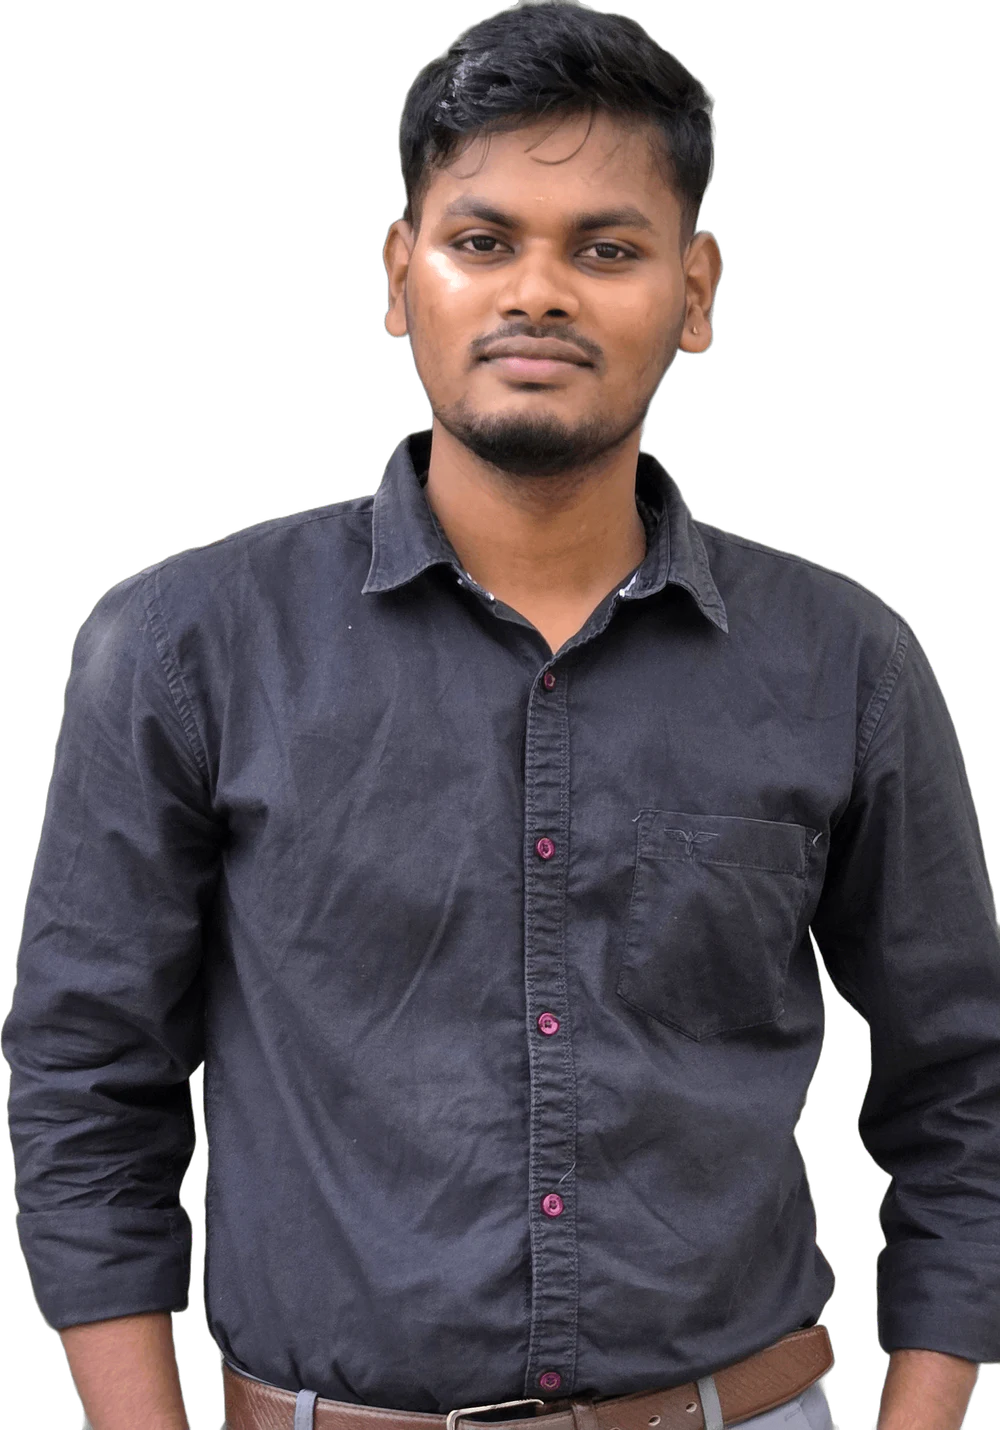
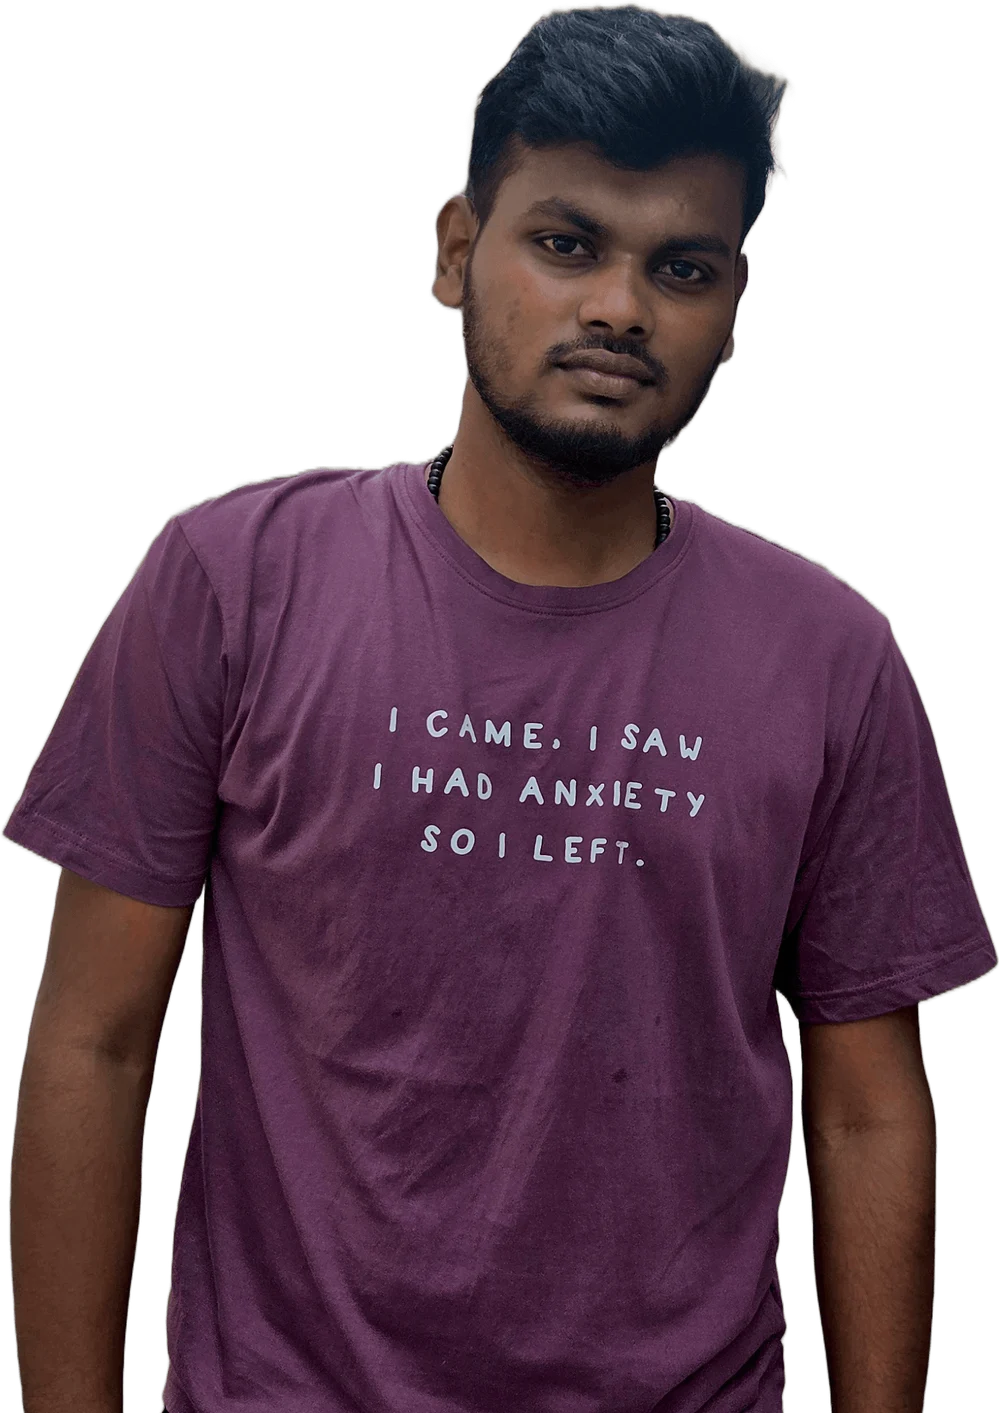
img updated

diff --git a/style.css b/style.css
@@ -403,44 +403,9 @@ body.has-pointer .cursor-glow { opacity: 1; }
 .sub-head { font-size: 1.4rem; margin-bottom: 1.5rem; }
 
 /* ---------- About ---------- */
-.about-grid { display: grid; grid-template-columns: .85fr 1.15fr; gap: clamp(2.5rem, 6vw, 5rem); align-items: center; }
+.about-grid { max-width: 820px; }
 
-.about-photo { position: relative; isolation: isolate; margin: 0; padding: 0 1.2rem 1.2rem 0; }
-.about-photo::before {
-    content: ""; position: absolute; inset: 1.2rem 0 0 1.2rem; border-radius: 28px;
-    background: var(--grad); opacity: .9; z-index: -1;
-    transition: transform .6s var(--ease);
-}
-.about-photo:hover::before { transform: translate(8px, 8px); }
-.photo-frame {
-    position: relative; aspect-ratio: 4 / 5; border-radius: 28px; box-shadow: var(--shadow);
-    background:
-        radial-gradient(90% 60% at 50% 100%, color-mix(in srgb, var(--primary) 40%, transparent), transparent 70%),
-        radial-gradient(60% 45% at 15% 15%, color-mix(in srgb, var(--primary-2) 28%, transparent), transparent 70%),
-        var(--surface-solid);
-    border: 1px solid var(--border-strong);
-}
-.photo-frame img {
-    position: absolute; left: 50%; bottom: 0; height: 110%; width: auto; max-width: none;
-    transform: translateX(-50%); transform-origin: 50% 100%;
-    clip-path: inset(-20% -40% 0 -40% round 0 0 27px 27px);
-    filter: drop-shadow(0 18px 30px rgba(0, 0, 0, .35));
-    transition: transform 1s var(--ease);
-}
-.about-photo:hover .photo-frame img { transform: translateX(-50%) scale(1.04); }
-.photo-badge {
-    position: absolute; left: -1.2rem; bottom: 3rem;
-    display: flex; align-items: center; gap: .8rem; padding: .9rem 1.2rem; border-radius: 16px;
-    background: color-mix(in srgb, var(--surface-solid) 88%, transparent); backdrop-filter: blur(12px);
-    border: 1px solid var(--border-strong); box-shadow: var(--shadow);
-    animation: bob 6s ease-in-out infinite;
-}
-.badge-num { font-family: var(--font-head); font-size: 2rem; font-weight: 700; line-height: 1; background: var(--grad); -webkit-background-clip: text; background-clip: text; color: transparent; }
-.badge-text { font-size: .8rem; font-weight: 600; line-height: 1.3; color: var(--text-muted); }
-.photo-dots {
-    position: absolute; top: -1.4rem; right: -.4rem; width: 110px; height: 110px; z-index: -2;
-    background-image: radial-gradient(var(--primary) 1.6px, transparent 1.6px); background-size: 14px 14px; opacity: .45;
-}
+
 .about-copy p { color: var(--text-muted); margin-bottom: 1.2rem; font-size: 1.05rem; }
 .about-copy strong { color: var(--text); font-weight: 600; }
 .about-copy em { color: var(--text); font-style: normal; font-weight: 500; }
@@ -582,28 +547,6 @@ body.has-pointer .cursor-glow { opacity: 1; }
 /* ---------- Contact ---------- */
 .contact-grid { display: grid; grid-template-columns: .9fr 1.1fr; gap: 2rem; align-items: start; }
 .contact-info { display: grid; gap: 1rem; }
-.contact-photo {
-    position: relative; margin: 1.6rem 0 0; aspect-ratio: 16 / 10; border-radius: var(--radius);
-    background:
-        radial-gradient(70% 90% at 85% 100%, rgba(34, 211, 238, .45), transparent 70%),
-        linear-gradient(135deg, #5b3df0 0%, #7c5cff 45%, #c04fd0 100%);
-    box-shadow: 0 30px 60px -25px rgba(124, 92, 255, .7);
-}
-.contact-photo::before {
-    content: ""; position: absolute; inset: 0; border-radius: inherit; opacity: .18;
-    background-image: radial-gradient(#fff 1.2px, transparent 1.2px); background-size: 16px 16px;
-    mask-image: linear-gradient(90deg, #000, transparent 60%); -webkit-mask-image: linear-gradient(90deg, #000, transparent 60%);
-}
-.contact-photo img {
-    position: absolute; right: 4%; bottom: 0; height: 118%; width: auto; max-width: none;
-    clip-path: inset(-20% -40% 0 -40% round 0 0 var(--radius) var(--radius));
-    filter: drop-shadow(0 14px 24px rgba(0, 0, 0, .35));
-    transform-origin: 50% 100%; transition: transform 1s var(--ease);
-}
-.contact-photo:hover img { transform: scale(1.04); }
-.contact-photo figcaption { position: absolute; left: 1.4rem; bottom: 1.4rem; width: 52%; z-index: 1; display: grid; gap: .7rem; justify-items: start; }
-.contact-photo figcaption strong { font-family: var(--font-head); font-size: clamp(1.2rem, 2.2vw, 1.5rem); color: #fff; line-height: 1.2; }
-.contact-photo .status-pill { color: #e8eaf5; background: rgba(10, 12, 22, .45); border-color: rgba(255, 255, 255, .18); font-size: .78rem; }
 .info-card {
     display: flex; align-items: center; gap: 1rem; padding: 1.2rem 1.3rem; border-radius: var(--radius);
     border: 1px solid var(--border); background: var(--surface);
@@ -723,7 +666,6 @@ a.info-card:hover { border-color: var(--border-strong); transform: translateX(6p
     .scroll-cue { display: none; }
 
     .about-grid, .contact-grid { grid-template-columns: 1fr; gap: 2.5rem; }
-    .about-photo { width: min(400px, 88%); justify-self: center; }
     .stats { grid-template-columns: repeat(2, 1fr); }
 }
 
@@ -732,12 +674,6 @@ a.info-card:hover { border-color: var(--border-strong); transform: translateX(6p
     .hide-sm { display: none; }
     .skill-groups, .project-grid { grid-template-columns: 1fr; }
     .about-facts { grid-template-columns: 1fr; }
-    .photo-badge { left: -.6rem; bottom: 2rem; padding: .7rem .9rem; }
-    .badge-num { font-size: 1.6rem; }
-    .contact-photo { aspect-ratio: 4 / 3; }
-    .contact-photo figcaption { width: 50%; left: 1.1rem; bottom: 1.1rem; }
-    .contact-photo img { right: 0; }
-    .contact-photo .status-pill { font-size: .7rem; padding: .35rem .7rem; }
     .field-row { grid-template-columns: 1fr; }
     .contact-form { padding: 1.4rem; }
     .timeline { padding-left: 2.6rem; }

diff --git a/index.html b/index.html
@@ -8,7 +8,7 @@
     <meta name="theme-color" content="#0b0d17">
     <meta property="og:title" content="Bharathidasan R — Software Engineer">
     <meta property="og:description" content="Full stack web & mobile developer. Angular · React · Flutter · .NET · Node.js">
-    <meta property="og:image" content="img/me/hero.jpg">
+    <meta property="og:image" content="assets/Bharathi.jpg">
     <link rel="icon" href="img/favicon.svg" type="image/svg+xml">
     <link rel="icon" href="img/favicon-32.png" sizes="32x32" type="image/png">
     <link rel="apple-touch-icon" href="img/apple-touch-icon.png">
@@ -115,7 +115,7 @@
 
                     <div class="avatar-ring">
                         <div class="avatar">
-                            <img src="img/me/hero-cut.webp" alt="Portrait of Bharathidasan R" width="1000" height="1430" fetchpriority="high">
+                            <img src="img/me/hero-cut.webp" alt="Portrait of Bharathidasan R" width="1000" height="1413" fetchpriority="high">
                         </div>
                     </div>
 
@@ -171,17 +171,6 @@
                 </div>
 
                 <div class="about-grid">
-                    <figure class="about-photo reveal">
-                        <div class="photo-frame">
-                            <img src="img/me/about-cut.webp" alt="Bharathidasan R in a navy polo shirt" width="1000" height="1931" loading="lazy">
-                        </div>
-                        <figcaption class="photo-badge">
-                            <span class="badge-num">2+</span>
-                            <span class="badge-text">Years crafting<br>software</span>
-                        </figcaption>
-                        <div class="photo-dots" aria-hidden="true"></div>
-                    </figure>
-
                     <div class="about-copy reveal">
                         <p>
                             I'm <strong>Bharathidasan R</strong>, a Software Engineer at <strong>Tenxity Solutions Private Limited</strong>
@@ -617,13 +606,6 @@
 
                 <div class="contact-grid">
                     <div class="contact-info reveal">
-                        <figure class="contact-photo">
-                            <img src="img/me/contact-cut.webp" alt="Bharathidasan R in a printed shirt" width="980" height="1790" loading="lazy">
-                            <figcaption>
-                                <span class="status-pill"><span class="pulse"></span> Available for opportunities</span>
-                                <strong>Let's talk about your next idea.</strong>
-                            </figcaption>
-                        </figure>
                         <a class="info-card" href="mailto:bharathiraj7688@gmail.com">
                             <span class="info-icon"><i class="fa-solid fa-envelope"></i></span>
                             <span><small>Email</small><strong>bharathiraj7688@gmail.com</strong></span>
